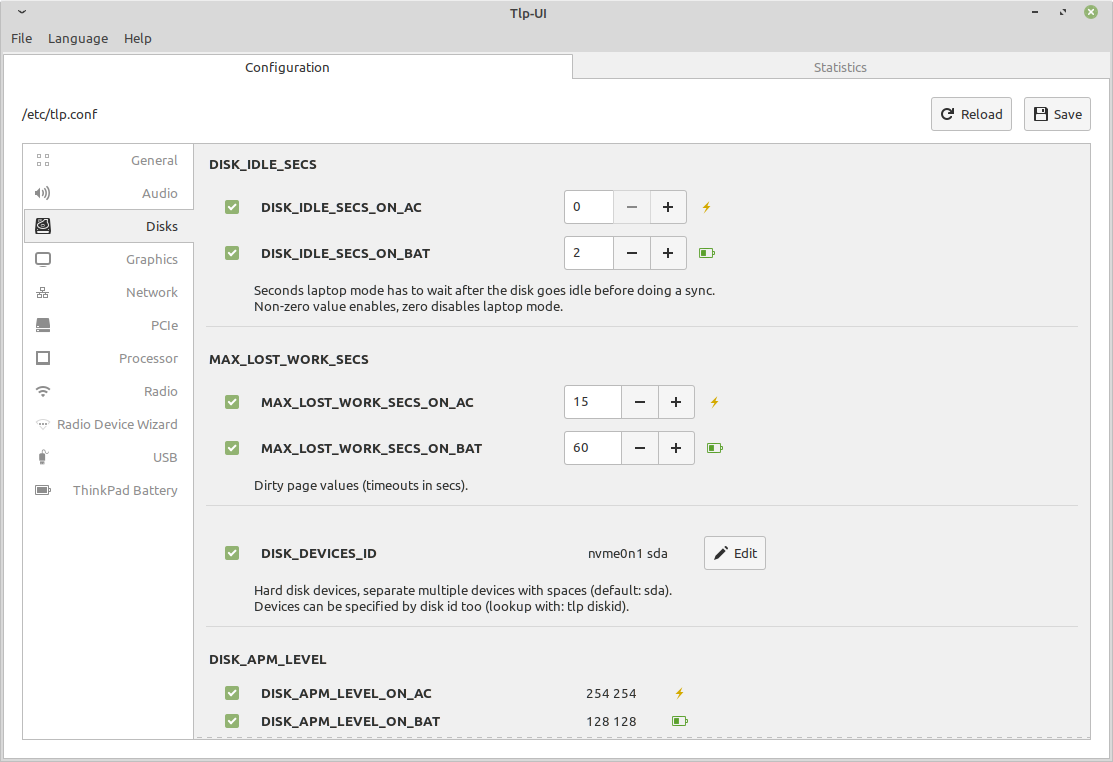
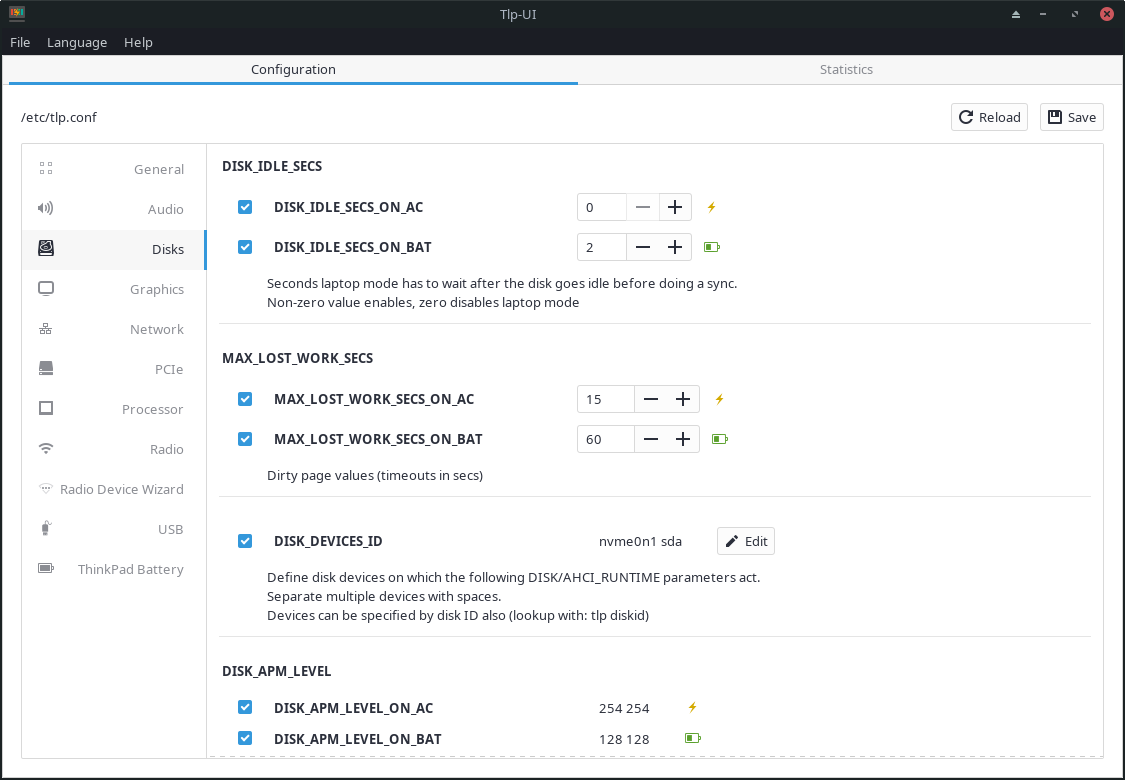
Update readme and screenshot

diff --git a/README.md b/README.md
@@ -1,22 +1,22 @@
-# TLP UI
 
-<p align="center">
-    <img src="https://raw.githubusercontent.com/d4nj1/TLPUI/master/tlpui/icons/themeable/hicolor/scalable/apps/tlpui.svg" alt="TLP UI" width="256">
-</p>
+<img src="https://raw.githubusercontent.com/d4nj1/TLPUI/master/tlpui/icons/themeable/hicolor/scalable/apps/tlpui.svg" align="left" alt="TLP UI" width="196px">
+
+## TLP UI
 
 The Python scripts in this project generate a GTK-UI to change [TLP](https://github.com/linrunner/TLP) configuration files easily.
 It has the aim to protect users from setting bad configuration and to deliver a basic overview of all the valid configuration values.
 
-![Screenshot 2021.02.03](https://raw.githubusercontent.com/d4nj1/TLPUI/master/screenshot.png)
+<img src="https://raw.githubusercontent.com/d4nj1/TLPUI/master/screenshot.png" alt="Screenshot" vspace="20px">
 
-## Install and run instructions
+### Install and run instructions :ledger:
 
 * [Python 3](https://github.com/d4nj1/TLPUI/wiki/Install-instructions#python-3)
 * [Ubuntu/Debian family](https://github.com/d4nj1/TLPUI/wiki/Install-instructions#ubuntudebian-family)
 * [Arch Linux](https://github.com/d4nj1/TLPUI/wiki/Install-instructions#arch-linux)
-* [Flatpak](https://flathub.org/apps/details/com.github.d4nj1.tlpui)
 
-## Current status
+<a href='https://flathub.org/apps/details/com.github.d4nj1.tlpui'><img width='240' alt='Download on Flathub' src='https://flathub.org/assets/badges/flathub-badge-en.png'/></a>
+
+### Current status :sunrise_over_mountains:
 
 * Supports TLP versions 0.8-1.5
 * Configuration can be read and displayed
@@ -24,7 +24,7 @@ It has the aim to protect users from setting bad configuration and to deliver a 
 * Changes can be saved with user and sudo permissions (e.g. /etc/default/tlp or /etc/tlp.conf)
 * tlp-stat can be load in ui (simple and complete)
 
-## To be done
+### To be done :building_construction:
 
 * Weblate translations - [#121](https://github.com/d4nj1/TLPUI/issues/121)
 * Mobile UI - [#111](https://github.com/d4nj1/TLPUI/issues/111)
